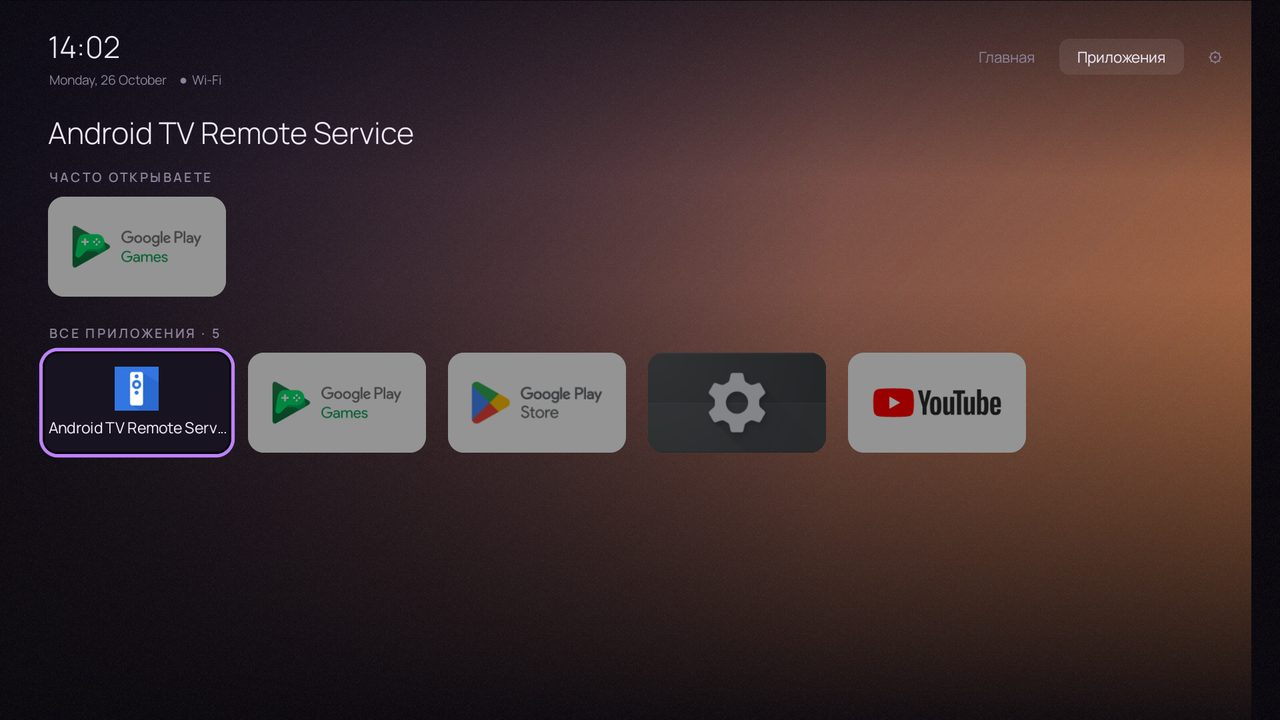
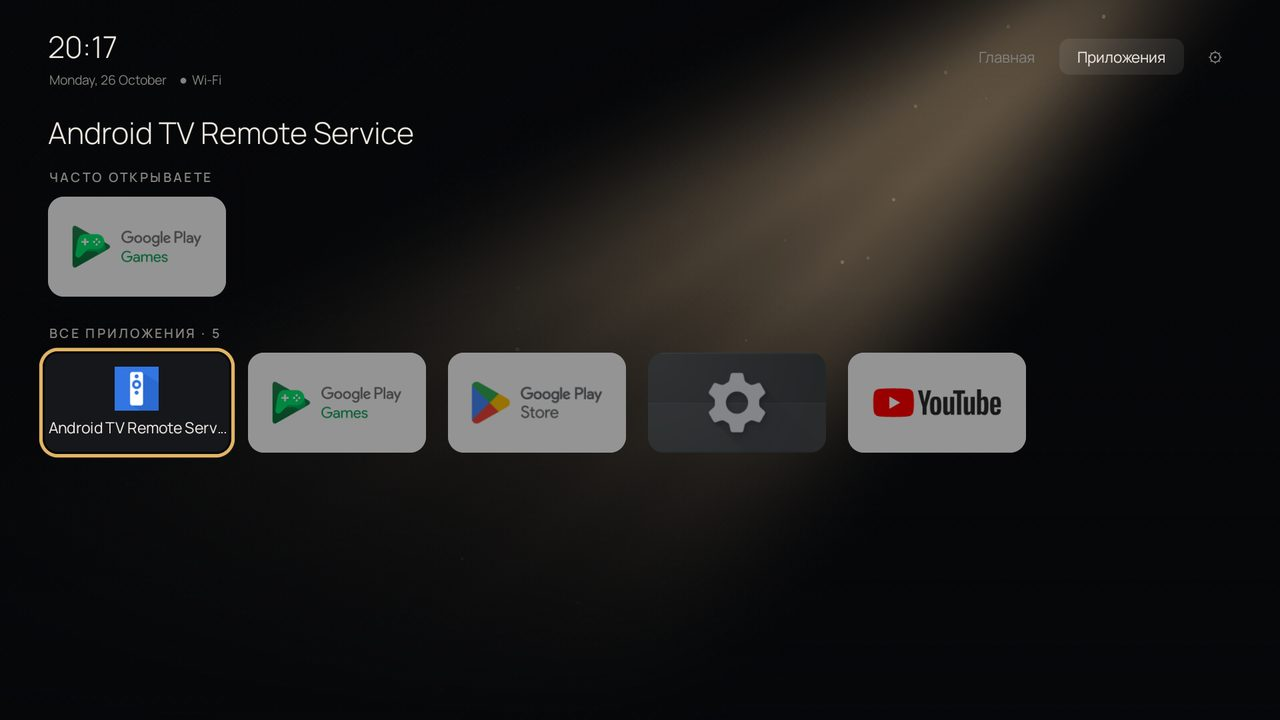
Luch 1.1: cinema projector beam as the default background
The beam is now light added over the hall rather than a translucent overlay: a soft
cone with brighter shafts that shimmer on their own, dust that glints only inside it,
and an optional film shutter flicker. Settings for brightness, side (right, centre,
left; the centre beam opens wider) and colour. Lighter text shades in beam mode.

diff --git a/src/com/local/tvlauncher/Ambient.java b/src/com/local/tvlauncher/Ambient.java
@@ -11,8 +11,10 @@ import android.graphics.Paint;
 import android.graphics.Path;
 import android.graphics.PorterDuff;
 import android.graphics.PorterDuffColorFilter;
+import android.graphics.PorterDuffXfermode;
 import android.graphics.RadialGradient;
 import android.graphics.Rect;
+import android.graphics.RectF;
 import android.graphics.Shader;
 import android.os.SystemClock;
 import android.view.View;
@@ -48,9 +50,23 @@ final class Ambient extends View {
     private final boolean[] warm = new boolean[11];
     private PorterDuffColorFilter accentTint, textTint;
 
-    // Beam: one pre-rendered cone, swaying and breathing; dust specks inside it.
-    private Bitmap cone;
-    private final float[] dx = new float[40], dy = new float[40], ds = new float[40], dp = new float[40];
+    // Beam: a cinema projector's light seen from the side. A soft cone and a few brighter shafts
+    // inside it (two sprites, so the shafts can shimmer on their own) and dust.
+    static final float[] BRIGHTNESS = {0.55f, 1f, 1.6f, 2.4f};
+    static final String[] BRIGHTNESS_NAMES = {"Мягкий", "Обычный", "Яркий", "Очень яркий"};
+    static final String[] SOURCES = {"Справа сверху", "Сверху по центру", "Слева сверху"};
+    static final String[] COLORS = {"Тёплый, как лампа", "Белый, как ксенон", "Цвет темы"};
+
+    private float bright = 1f;
+    private int source;
+    private int beamColor = Color.rgb(255, 214, 160);
+    private boolean flicker = true;
+    private Bitmap cone, shafts;
+    /** Half-width of the cone: tan of its half angle. */
+    private float spread;
+    private float sx, sy, ux, uy, len, angle;
+    private final Paint light = new Paint(Paint.FILTER_BITMAP_FLAG | Paint.DITHER_FLAG);
+    private final float[] dx = new float[70], dy = new float[70], ds = new float[70], dp = new float[70];
 
     // Grain: a small noise tile repeated over the screen, shifted every grain frame.
     private Paint grainPaint;
@@ -71,9 +87,26 @@ final class Ambient extends View {
         this.bokeh = bokeh;
         this.grain = grain;
         setWillNotDraw(false);
+        // Light adds up like light does: the beam brightens what is under it instead of covering it.
+        light.setXfermode(new PorterDuffXfermode(PorterDuff.Mode.ADD));
+        light.setColorFilter(new PorterDuffColorFilter(beamColor, PorterDuff.Mode.SRC_IN));
         if (bokeh) initBokeh();
         if (beam) initDust();
         if (grain) initGrain();
+    }
+
+    /**
+     * Beam look: {@code brightness} index into {@link #BRIGHTNESS}, {@code from} into
+     * {@link #SOURCES}, {@code color} into {@link #COLORS}; {@code flicker} adds a film projector's
+     * faint shutter flicker.
+     */
+    void beamStyle(int brightness, int from, int color, boolean flicker) {
+        bright = BRIGHTNESS[Math.max(0, Math.min(BRIGHTNESS.length - 1, brightness))];
+        source = Math.max(0, Math.min(SOURCES.length - 1, from));
+        beamColor = color == 1 ? Color.rgb(225, 235, 255) : color == 2 ? Ui.ACCENT : Color.rgb(255, 214, 160);
+        this.flicker = flicker;
+        light.setColorFilter(new PorterDuffColorFilter(beamColor, PorterDuff.Mode.SRC_IN));
+        cone = null;
     }
 
     /** Start or stop the animation loop. */
@@ -139,24 +172,63 @@ final class Ambient extends View {
         grainPaint.setAlpha(70);
     }
 
-    /** The beam cone, rendered once at a quarter of the screen size and stretched when drawn. */
-    private Bitmap cone(int w, int h) {
-        int cw = Math.max(64, w / 4), ch = Math.max(36, h / 4);
-        Bitmap b = Bitmap.createBitmap(cw, ch, Bitmap.Config.ARGB_8888);
-        Canvas c = new Canvas(b);
-        // Light comes from the top right corner and widens towards the lower left.
+    /**
+     * Places the projector for this screen size and renders the sprites. They are drawn along
+     * the x axis (lens at the left, light going right) at a quarter of the size, then rotated
+     * and stretched into place when drawn.
+     */
+    private void layoutBeam(int w, int h) {
+        float tx, ty;
+        // The lens sits above the screen, so only the light is seen, already spread out.
+        // Straight down the beam is short, so it opens wider to fill the screen.
+        if (source == 1) { sx = w * 0.5f; sy = -h * 0.25f; tx = w * 0.5f; ty = h; spread = 0.6f; }
+        else if (source == 2) { sx = w * 0.06f; sy = -h * 0.12f; tx = w * 0.8f; ty = h; spread = 0.26f; }
+        else { sx = w * 0.94f; sy = -h * 0.12f; tx = w * 0.2f; ty = h; spread = 0.26f; }
+        float vx = tx - sx, vy = ty - sy, d = (float) Math.hypot(vx, vy);
+        ux = vx / d;
+        uy = vy / d;
+        len = d * 1.15f;
+        angle = (float) Math.toDegrees(Math.atan2(vy, vx));
+
+        int cw = Math.max(64, Math.round(len / 4));
+        int ch = Math.max(32, Math.round(len * spread * 2.3f / 4));
+        float mid = ch / 2f, half = cw * spread;
+
+        // The cone: brightest at the lens, fading out before it reaches the far end.
+        cone = Bitmap.createBitmap(cw, ch, Bitmap.Config.ARGB_8888);
         Path path = new Path();
-        path.moveTo(cw * 1.02f, -ch * 0.05f);
-        path.lineTo(-cw * 0.05f, ch * 0.55f);
-        path.lineTo(cw * 0.25f, ch * 1.05f);
+        path.moveTo(0, mid - 1);
+        path.lineTo(cw, mid - half);
+        path.lineTo(cw, mid + half);
+        path.lineTo(0, mid + 1);
         path.close();
         Paint p = new Paint(Paint.ANTI_ALIAS_FLAG | Paint.DITHER_FLAG);
-        p.setShader(new LinearGradient(cw, 0, cw * 0.1f, ch * 0.8f,
-                new int[]{Ui.alpha(Color.WHITE, 0.55f), Ui.alpha(Color.WHITE, 0.16f), 0},
-                new float[]{0f, 0.45f, 1f}, Shader.TileMode.CLAMP));
-        c.drawPath(path, p);
-        Blur.box(b, 6, 2);
-        return b;
+        p.setShader(new LinearGradient(0, 0, cw, 0,
+                new int[]{Ui.alpha(Color.WHITE, 0.95f), Ui.alpha(Color.WHITE, 0.5f),
+                        Ui.alpha(Color.WHITE, 0.18f), 0},
+                new float[]{0f, 0.25f, 0.65f, 1f}, Shader.TileMode.CLAMP));
+        new Canvas(cone).drawPath(path, p);
+        Blur.box(cone, Math.max(2, ch / 16), 2);
+
+        // Shafts: thin brighter wedges from the lens, the "rays" seen in a smoky hall.
+        shafts = Bitmap.createBitmap(cw, ch, Bitmap.Config.ARGB_8888);
+        Canvas sc = new Canvas(shafts);
+        p.setShader(new LinearGradient(0, 0, cw, 0,
+                new int[]{Ui.alpha(Color.WHITE, 0.6f), Ui.alpha(Color.WHITE, 0.22f), 0},
+                new float[]{0f, 0.35f, 0.85f}, Shader.TileMode.CLAMP));
+        Random r = new Random(7);
+        for (int i = 0; i < 7; i++) {
+            float at = (r.nextFloat() * 2 - 1) * spread * 0.8f;   // direction inside the cone
+            float wd = spread * (0.03f + r.nextFloat() * 0.06f);  // shaft width
+            Path s = new Path();
+            s.moveTo(0, mid);
+            s.lineTo(cw, mid + cw * (at - wd));
+            s.lineTo(cw, mid + cw * (at + wd));
+            s.close();
+            sc.drawPath(s, p);
+        }
+        Blur.box(shafts, Math.max(1, ch / 60), 2);
+
     }
 
     // ------------------------------------------------------------------- draw
@@ -187,37 +259,54 @@ final class Ambient extends View {
     }
 
     private void drawBeam(Canvas canvas, int w, int h, float t) {
-        if (cone == null) cone = cone(w, h);
-        float breathe = 0.75f + 0.25f * (float) Math.sin(t * 0.35f);
-        float sway = 1.2f * (float) Math.sin(t * 0.12f);
+        if (cone == null) layoutBeam(w, h);
+        // A projector lamp is steady: a slow, shallow breath, and with film a faint shutter flicker.
+        float level = bright * (0.9f + 0.1f * (float) Math.sin(t * 0.35f));
+        if (flicker) level *= 0.93f + 0.07f * rnd.nextFloat();
+        float sway = 0.6f * (float) Math.sin(t * 0.12f);
+        float half = len * spread * 1.15f;
+        RectF where = new RectF(0, -half, len, half);
+
         canvas.save();
-        canvas.rotate(sway, w, 0);
-        paint.setAlpha((int) (255 * 0.55f * breathe));
-        canvas.drawBitmap(cone, null, new Rect(0, 0, w, h), paint);
+        canvas.translate(sx, sy);
+        canvas.rotate(angle + sway);
+        drawLight(canvas, cone, where, 0.8f * level);
+        // The shafts drift a little against the cone and shimmer, like light through moving smoke.
+        canvas.rotate(0.5f * (float) Math.sin(t * 0.21f + 1f));
+        drawLight(canvas, shafts, where, 0.4f * level * (0.65f + 0.35f * (float) Math.sin(t * 0.5f)));
         canvas.restore();
 
         // Dust: drifting specks that glint only inside the beam.
         Paint dot = paint;
-        dot.setColor(Color.WHITE);
+        dot.setColor(beamColor);
         for (int i = 0; i < dx.length; i++) {
-            float x = (dx[i] + t * ds[i] * 0.5f) % 1f;
-            float y = (dy[i] + 0.02f * (float) Math.sin(t * 0.4f + dp[i])) % 1f;
+            float x = ((dx[i] + t * ds[i] * 0.5f) % 1f) * w;
+            float y = ((dy[i] + 0.02f * (float) Math.sin(t * 0.4f + dp[i]) + 1f) % 1f) * h;
             float inBeam = beamStrength(x, y);
             if (inBeam <= 0) continue;
             float twinkle = 0.5f + 0.5f * (float) Math.sin(t * 1.3f + dp[i] * 3);
-            dot.setAlpha((int) (255 * 0.55f * inBeam * twinkle * breathe));
-            canvas.drawCircle(x * w, y * h, 1.2f + 1.6f * twinkle, dot);
+            dot.setAlpha((int) Math.min(255, 255 * 0.7f * inBeam * twinkle * level));
+            canvas.drawCircle(x, y, 1.2f + 1.8f * twinkle, dot);
         }
     }
 
-    /** Roughly how much beam light is at (x, y), both 0..1: 1 near the source, 0 outside. */
-    private static float beamStrength(float x, float y) {
-        float along = (1f - x) * 0.7f + y * 0.3f;          // distance from the top right source
-        float width = 0.12f + along * 0.55f;                 // the cone widens
-        float centre = 0.05f + (1f - x) * 0.62f;            // beam centre line in y for this x
-        float off = Math.abs(y - centre) / width;
+    /** Draws a light sprite; above full strength it is added once more, as light would be. */
+    private void drawLight(Canvas canvas, Bitmap b, RectF where, float strength) {
+        while (strength > 0.01f) {
+            light.setAlpha((int) (255 * Math.min(1f, strength)));
+            canvas.drawBitmap(b, null, where, light);
+            strength -= 1f;
+        }
+    }
+
+    /** Roughly how much beam light is at screen point (x, y): 1 near the lens, 0 outside the cone. */
+    private float beamStrength(float x, float y) {
+        float vx = x - sx, vy = y - sy;
+        float along = vx * ux + vy * uy;
+        if (along <= 0) return 0f;
+        float off = Math.abs(vx * uy - vy * ux) / (along * spread);
         if (off >= 1f) return 0f;
-        return (1f - off) * (1f - Math.min(1f, along));
+        return (1f - off) * Math.max(0f, 1f - along / len);
     }
 
     private void drawGrain(Canvas canvas, int w, int h) {

diff --git a/src/com/local/tvlauncher/SettingsActivity.java b/src/com/local/tvlauncher/SettingsActivity.java
@@ -95,6 +95,44 @@ public class SettingsActivity extends Activity {
                         public void set(boolean on) { prefs.setKenBurns(on); }
                     });
         }
+        if (prefs.background() == Wallpaper.BEAM) {
+            action("Яркость луча", "На самом ярком луч может проходить по вкладкам сверху",
+                    Ambient.BRIGHTNESS_NAMES[prefs.beamBright()], new Runnable() {
+                        public void run() {
+                            choose("Яркость луча", Ambient.BRIGHTNESS_NAMES, prefs.beamBright(), new Pick() {
+                                public void pick(int i) {
+                                    prefs.setBeam(i, prefs.beamFrom(), prefs.beamColor(), prefs.flicker());
+                                }
+                            });
+                        }
+                    });
+            action("Откуда светит", "С какой стороны идёт свет проектора",
+                    Ambient.SOURCES[prefs.beamFrom()], new Runnable() {
+                        public void run() {
+                            choose("Откуда светит", Ambient.SOURCES, prefs.beamFrom(), new Pick() {
+                                public void pick(int i) {
+                                    prefs.setBeam(prefs.beamBright(), i, prefs.beamColor(), prefs.flicker());
+                                }
+                            });
+                        }
+                    });
+            action("Цвет луча", "Тёплый — как лампа старого кинопроектора, белый — как ксеноновая",
+                    Ambient.COLORS[prefs.beamColor()], new Runnable() {
+                        public void run() {
+                            choose("Цвет луча", Ambient.COLORS, prefs.beamColor(), new Pick() {
+                                public void pick(int i) {
+                                    prefs.setBeam(prefs.beamBright(), prefs.beamFrom(), i, prefs.flicker());
+                                }
+                            });
+                        }
+                    });
+            toggle("Мерцание плёнки", "Едва заметное подрагивание света, как у плёночного кинопроектора",
+                    prefs.flicker(), new Toggle() {
+                        public void set(boolean on) {
+                            prefs.setBeam(prefs.beamBright(), prefs.beamFrom(), prefs.beamColor(), on);
+                        }
+                    });
+        }
         toggle("Плёночное зерно", "Едва заметное живое зерно поверх фона, как у киноплёнки",
                 prefs.grain(), new Toggle() {
                     public void set(boolean on) { prefs.setGrain(on); }
@@ -243,6 +281,24 @@ public class SettingsActivity extends Activity {
                             return;
                         }
                         prefs.setIdleMode(which);
+                        build();
+                    }
+                })
+                .show();
+    }
+
+    private interface Pick {
+        void pick(int index);
+    }
+
+    /** A list with one choice; picking an item saves it and rebuilds the screen. */
+    private void choose(String title, String[] items, int checked, final Pick pick) {
+        new AlertDialog.Builder(this)
+                .setTitle(title)
+                .setSingleChoiceItems(items, checked, new DialogInterface.OnClickListener() {
+                    @Override public void onClick(DialogInterface d, int which) {
+                        pick.pick(which);
+                        d.dismiss();
                         build();
                     }
                 })

diff --git a/src/com/local/tvlauncher/Prefs.java b/src/com/local/tvlauncher/Prefs.java
@@ -33,6 +33,10 @@ final class Prefs {
     private static final String GRAIN = "grain";
     private static final String ANIM_FPS = "anim_fps";
     private static final String MARGIN = "safe_margin";
+    private static final String BEAM_BRIGHT = "beam_bright";
+    private static final String BEAM_FROM = "beam_from";
+    private static final String BEAM_COLOR = "beam_color";
+    private static final String FLICKER = "flicker";
     private static final String BACKGROUND = "background";
     private static final String BACKGROUND_STAMP = "background_stamp";
     private static final String THEME = "theme";
@@ -270,9 +274,33 @@ final class Prefs {
         changed();
     }
 
-    /** One of the {@link Wallpaper} modes. */
+    // Projector beam look; indexes into the lists in {@link Ambient}.
+    int beamBright() {
+        return sp.getInt(BEAM_BRIGHT, 1);
+    }
+
+    int beamFrom() {
+        return sp.getInt(BEAM_FROM, 0);
+    }
+
+    int beamColor() {
+        return sp.getInt(BEAM_COLOR, 0);
+    }
+
+    /** Faint shutter flicker of a film projector in the beam. */
+    boolean flicker() {
+        return sp.getBoolean(FLICKER, true);
+    }
+
+    void setBeam(int bright, int from, int color, boolean flicker) {
+        sp.edit().putInt(BEAM_BRIGHT, bright).putInt(BEAM_FROM, from).putInt(BEAM_COLOR, color)
+                .putBoolean(FLICKER, flicker).putLong(BACKGROUND_STAMP, System.currentTimeMillis()).apply();
+        changed();
+    }
+
+    /** One of the {@link Wallpaper} modes. The projector beam is the signature look. */
     int background() {
-        return sp.getInt(BACKGROUND, Wallpaper.GLOW);
+        return sp.getInt(BACKGROUND, Wallpaper.BEAM);
     }
 
     void setBackground(int mode) {

diff --git a/src/com/local/tvlauncher/Backdrop.java b/src/com/local/tvlauncher/Backdrop.java
@@ -55,9 +55,11 @@ final class Backdrop {
             }
         }
 
-        shade(canvas, GradientDrawable.Orientation.LEFT_RIGHT, 0.85f, 0, 0, w * 65 / 100, h);
+        // The beam is light in a dark hall: lighter shades, or they would hide most of it.
+        float k = mode == Wallpaper.BEAM ? 0.6f : 1f;
+        shade(canvas, GradientDrawable.Orientation.LEFT_RIGHT, 0.85f * k, 0, 0, w * 65 / 100, h);
         shade(canvas, GradientDrawable.Orientation.BOTTOM_TOP, 0.95f, 0, h - h * 60 / 100, w, h);
-        shade(canvas, GradientDrawable.Orientation.TOP_BOTTOM, 0.55f, 0, 0, w, h / 4);
+        shade(canvas, GradientDrawable.Orientation.TOP_BOTTOM, 0.55f * k * k, 0, 0, w, h / 4);
 
         cached = out;
         cachedKey = key;

diff --git a/src/com/local/tvlauncher/HomeActivity.java b/src/com/local/tvlauncher/HomeActivity.java
@@ -307,6 +307,7 @@ public class HomeActivity extends Activity {
             root.addView(bannerBg, new FrameLayout.LayoutParams(-1, -1));
         } else if (async && (mode == Wallpaper.BEAM || mode == Wallpaper.BOKEH)) {
             ambient = new Ambient(this, prefs.animFps(), mode == Wallpaper.BEAM, mode == Wallpaper.BOKEH, false);
+            ambient.beamStyle(prefs.beamBright(), prefs.beamFrom(), prefs.beamColor(), prefs.flicker());
             root.addView(ambient, new FrameLayout.LayoutParams(-1, -1));
         } else if (mode == Wallpaper.IMAGE && prefs.kenBurns()) {
             kenBurns = new ImageView(this);

diff --git a/README.md b/README.md
@@ -15,8 +15,11 @@
 - Главный экран в стиле стриминговых сервисов: фон на весь экран, крупное название, ряд избранного.
 - Вкладка «Приложения» с рядом «Часто открываете».
 - 6 тёмных тем (светлых нет специально, чтобы меню не засвечивало комнату).
-- Фон: свечение темы, своя картинка с медленным наездом, размытый баннер,
-  анимации «Луч проектора» и «Огни зала», плёночное зерно. Анимация 12 или 24 кадра в секунду.
+- **Луч кинопроектора** (фон по умолчанию): конус света с лучами внутри, пылинки и лёгкое
+  мерцание плёнки. Настраиваются яркость, сторона (справа, по центру, слева) и цвет
+  (тёплая лампа, белый ксенон, цвет темы).
+- Другие фоны: свечение темы, своя картинка с медленным наездом, размытый баннер,
+  «Огни зала», плёночное зерно. Анимация 12 или 24 кадра в секунду, при листании пауза.
 - Перехват кнопки «Домой» на пульте через спецвозможности, как у Projectivy.
 - **Ранний старт**: лаунчер показывается сразу при включении, без вспышки оболочки производителя
   (`directBootAware`).
@@ -25,16 +28,19 @@
 - **Защита от поломки**: если лаунчер падает 3 раза за 3 минуты, он сам выключает ранний старт,
   а при повторе снимает себя с главного экрана, и система возвращает стандартную оболочку.
 
-| Приложения | Настройки |
+| Луч по центру | Приложения |
 |---|---|
-| ![](docs/apps.jpg) | ![](docs/settings.jpg) |
+| ![](docs/beam_center.jpg) | ![](docs/apps.jpg) |
+
+![Настройки луча](docs/settings.jpg)
 
 ## Установка
 
 Готовый APK лежит в [Releases](../../releases).
 
-1. Установите APK: с флешки через файловый менеджер или `adb install Luch-1.0.apk`.
+1. Установите APK: с флешки через файловый менеджер или `adb install Luch-1.1.apk`.
    После установки ничего не меняется, текущий лаунчер остаётся главным.
+   Новая версия ставится поверх старой, настройки сохраняются.
 2. Откройте «Настройки Luch» из списка приложений.
 3. «Открыть спецвозможности» → включите «Luch: кнопка «Домой»».
    Если стоит Projectivy, его службу там же лучше выключить.
